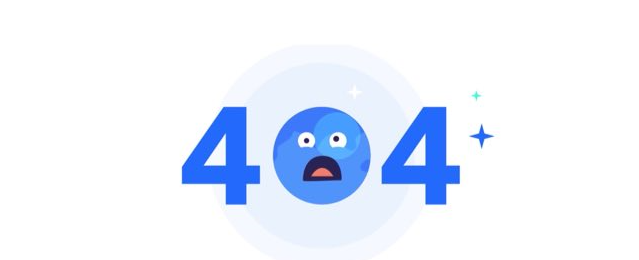
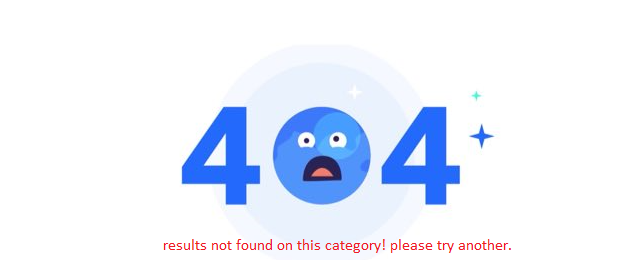
upload a notfoun picture

Changed region(s): [[0.2379, 0.9231, 0.8028, 0.9846]]

diff --git a/index.html b/index.html
@@ -21,7 +21,7 @@
         <div class="top-bar border-bottom py-3">
             <nav class="navbar navbar-expand-lg ">
                 <div class="container-fluid">
-                    <a class="navbar-brand" href="#"><span class="text-primary">News</span> Today</a>
+                    <a class="navbar-brand" href="index.html"><span class="text-primary">News</span> Today</a>
                     <button class="navbar-toggler" type="button" data-bs-toggle="collapse"
                         data-bs-target="#navbarSupportedContent" aria-controls="navbarSupportedContent"
                         aria-expanded="false" aria-label="Toggle navigation">
@@ -80,7 +80,7 @@
                 <!-- </div> -->
             </div>
             <div id="not-found" class="text-center d-none">
-                <img src="images/Screenshot_5.png" alt="">
+                <img src="images/Screenshot_5-removebg-preview (1).png" alt="">
             </div>
         </section>
         <!-- news section end -->

diff --git a/blog.html b/blog.html
@@ -21,7 +21,7 @@
         <div class="top-bar border-bottom py-3">
             <nav class="navbar navbar-expand-lg ">
                 <div class="container-fluid">
-                    <a class="navbar-brand" href="#"><span class="text-primary">News</span> Today</a>
+                    <a class="navbar-brand" href="index.html"><span class="text-primary">News</span> Today</a>
                     <button class="navbar-toggler" type="button" data-bs-toggle="collapse"
                         data-bs-target="#navbarSupportedContent" aria-controls="navbarSupportedContent"
                         aria-expanded="false" aria-label="Toggle navigation">
